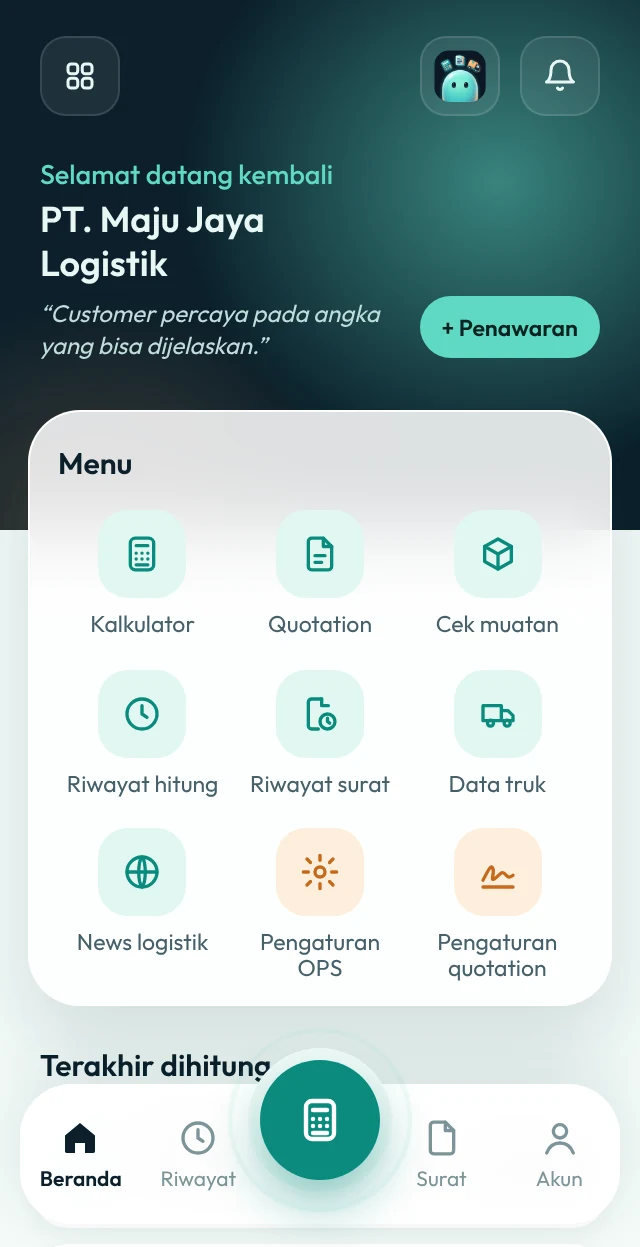
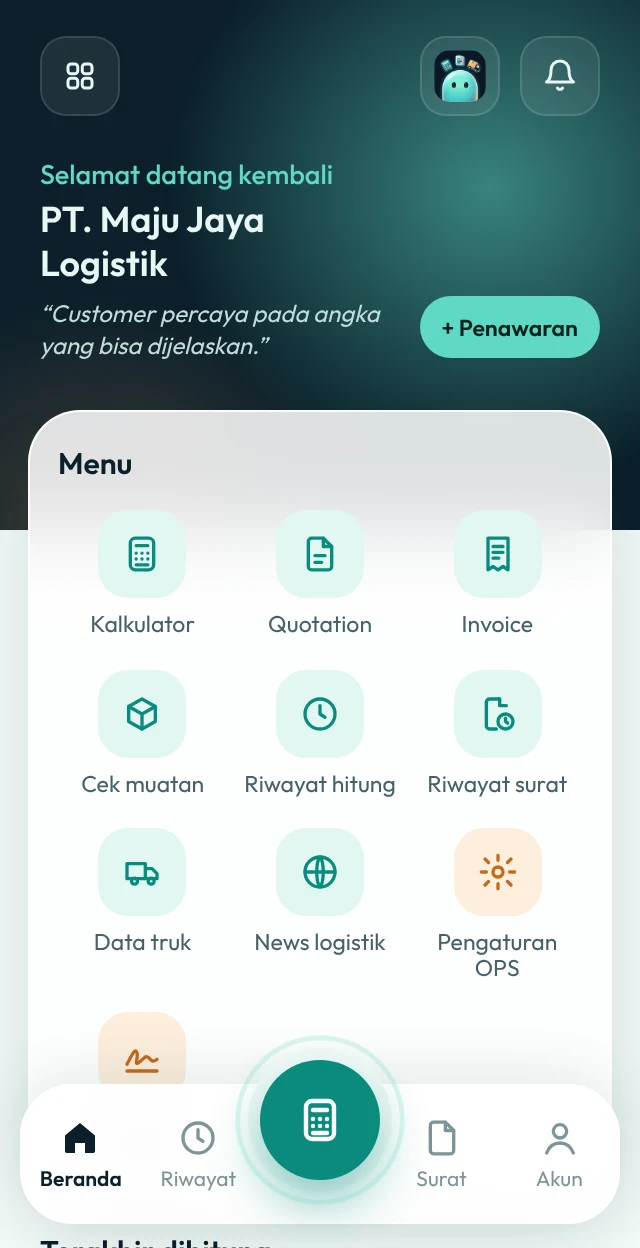
Landing: fitur baru (invoice & pembayaran, tim, cari cepat, iPhone & laptop, oversize), screenshot beranda baru
Claude-Session: https://claude.ai/code/session_013ntjnBoovXgUwfU7gZqrMt

diff --git a/index.html b/index.html
@@ -4,12 +4,12 @@
 <meta charset="utf-8">
 <meta name="viewport" content="width=device-width,initial-scale=1,viewport-fit=cover">
 <title>Download Ghostrip — Aplikasi Harga Trip & Penawaran Truk</title>
-<meta name="description" content="Download aplikasi Ghostrip untuk Android. Hitung harga trip truk otomatis dan kirim surat penawaran PDF lengkap dengan kop, TTD, dan cap langsung dari HP.">
+<meta name="description" content="Download aplikasi Ghostrip untuk Android, iPhone, dan laptop. Hitung harga trip truk otomatis, kirim surat penawaran dan invoice PDF lengkap dengan kop, TTD, dan cap, lalu pantau tagihan yang belum dibayar.">
 <meta name="theme-color" content="#f3fbf9">
 <meta property="og:type" content="website">
 <meta property="og:site_name" content="Ghostrip">
 <meta property="og:title" content="Ghostrip — Harga Pas, Penawaran Rapi.">
-<meta property="og:description" content="Hitung harga trip truk otomatis, cek muatan 3D, dan kirim surat penawaran PDF dengan kop, TTD, dan cap dari HP. Coba gratis 7 hari.">
+<meta property="og:description" content="Hitung harga trip truk otomatis, cek muatan 3D, kirim surat penawaran dan invoice PDF dengan kop, TTD, dan cap, lalu pantau pembayarannya. Coba gratis 7 hari.">
 <meta property="og:url" content="https://ghostrip.id/">
 <meta property="og:image" content="https://ghostrip.id/og.jpg">
 <meta property="og:image:width" content="1200">
@@ -293,7 +293,7 @@ footer .brand img{width:28px;height:28px;border-radius:8px}
     <div class="hc">
       <span class="badge"><b><svg width="14" height="14" viewBox="0 0 24 24" fill="none" stroke="currentColor" stroke-width="2.3" stroke-linecap="round" stroke-linejoin="round" aria-hidden="true"><path d="M12 3l8 3.5v5.2c0 4.6-3.4 8.3-8 9.3-4.6-1-8-4.7-8-9.3V6.5z"/><path d="M8.6 12.2l2.3 2.3 4.6-4.8"/></svg></b>Sudah diuji &amp; dipakai harian oleh admin logistik</span>
       <h1><span class="t">Harga Pas,</span><br>Penawaran <span class="k">Rapi.</span></h1>
-      <p class="lead">Harga trip dihitung otomatis dari solar, tol, sampai markup. Surat penawaran PDF lengkap dengan kop, TTD, dan cap jadi dalam hitungan detik, langsung dari HP.</p>
+      <p class="lead">Harga trip dihitung otomatis dari solar, tol, sampai markup. Surat penawaran dan invoice PDF lengkap dengan kop, TTD, dan cap jadi dalam hitungan detik, langsung dari HP.</p>
       <div class="acts">
         <a class="pbtn" id="dlBtn" href="https://naektxrebdwlgjsdikns.supabase.co/storage/v1/object/public/app-update/apk/Ghostrip.apk?download=Ghostrip.apk">Download App
           <svg width="16" height="16" viewBox="0 0 24 24" fill="none" stroke="currentColor" stroke-width="2.2" stroke-linecap="round" stroke-linejoin="round" aria-hidden="true"><path d="M5 12h14M13 6l6 6-6 6"/></svg></a>
@@ -330,7 +330,7 @@ footer .brand img{width:28px;height:28px;border-radius:8px}
         <div class="phone">
           <div class="screen">
             <div class="island"></div>
-            <img src="home.webp" width="640" height="1247" alt="Beranda aplikasi Ghostrip dengan menu kalkulator, quotation, cek muatan, data truk, dan berita logistik">
+            <img src="home.webp?v=2" width="640" height="1247" alt="Beranda aplikasi Ghostrip dengan menu kalkulator, quotation, invoice, cek muatan, data truk, dan berita logistik">
           </div>
         </div>
       </div>
@@ -356,7 +356,7 @@ footer .brand img{width:28px;height:28px;border-radius:8px}
 
   <section class="s" id="fitur">
     <div class="wrap">
-      <div class="sh rv"><h2>Dari hitung harga sampai <b>surat penawaran</b></h2><p>Dibuat untuk bos dan admin ekspedisi yang ingin penawaran cepat, rapi, dan tidak salah hitung.</p></div>
+      <div class="sh rv"><h2>Dari hitung harga sampai <b>tagihan lunas</b></h2><p>Dibuat untuk bos dan admin ekspedisi yang ingin penawaran cepat, tagihan rapi, dan tidak salah hitung.</p></div>
       <div class="paper rv">
         <div class="sheet"><img src="quote.webp?v=2" width="1100" height="1599" alt="Contoh surat penawaran dari Ghostrip dengan harga per trip, per bulan, dan tonase, lengkap dengan pajak, terbilang, TTD, dan cap" loading="lazy"><i class="mk" style="--y:10%">1</i><i class="mk" style="--y:50%">2</i><i class="mk" style="--y:56%">3</i><i class="mk" style="--y:62.5%">4</i><i class="mk" style="--y:71%">5</i><i class="mk" style="--y:88%">6</i></div>
           <div class="pc r" style="--y:10%;--cd:0.15s"><i class="no">1</i><span class="ic m"><svg width="16" height="16" viewBox="0 0 24 24" fill="none" stroke="currentColor" stroke-width="2.2" stroke-linecap="round" stroke-linejoin="round" aria-hidden="true"><rect x="3" y="4" width="18" height="16" rx="2"/><path d="M7 9h6M7 13h10M7 16h7"/></svg></span><div><b>Kop surat sendiri</b><span>Logo, alamat & kontak</span></div></div>
@@ -373,10 +373,14 @@ footer .brand img{width:28px;height:28px;border-radius:8px}
         <div class="f rv" style="--rd:.06s"><span class="ic m"><svg width="22" height="22" viewBox="0 0 24 24" fill="none" stroke="currentColor" stroke-width="2" stroke-linecap="round" stroke-linejoin="round" aria-hidden="true"><path d="M14 2.5H7a2 2 0 0 0-2 2v15a2 2 0 0 0 2 2h10a2 2 0 0 0 2-2V7.5z"/><path d="M14 2.5v5h5M9 13h6M9 17h4"/></svg></span><div><h3>Penawaran dari riwayat</h3><p>Hasil hitungan tinggal dipilih dari riwayat, langsung masuk ke surat penawaran.</p></div></div>
         <div class="f rv" style="--rd:.12s"><span class="ic m"><svg width="22" height="22" viewBox="0 0 24 24" fill="none" stroke="currentColor" stroke-width="2" stroke-linecap="round" stroke-linejoin="round" aria-hidden="true"><circle cx="12" cy="12" r="9"/><path d="M12 7v5l3 2"/></svg></span><div><h3>Riwayat tersimpan di akun</h3><p>Hitungan dan penawaran tetap ada walaupun ganti HP. Cukup login dengan akun yang sama.</p></div></div>
         <div class="f rv" style="--rd:.18s"><span class="ic o"><svg width="22" height="22" viewBox="0 0 24 24" fill="none" stroke="currentColor" stroke-width="2" stroke-linecap="round" stroke-linejoin="round" aria-hidden="true"><path d="M3 7h11v9H3zM14 10h4l3 3v3h-7z"/><circle cx="7.5" cy="17.5" r="1.8"/><circle cx="17.5" cy="17.5" r="1.8"/></svg></span><div><h3>Data truk sendiri</h3><p>Atur jenis truk, rasio solar, tarif, dan harga solar sesuai armada perusahaan Anda.</p></div></div>
-        <div class="f rv" style="--rd:.24s"><span class="ic m"><svg width="22" height="22" viewBox="0 0 24 24" fill="none" stroke="currentColor" stroke-width="2" stroke-linecap="round" stroke-linejoin="round" aria-hidden="true"><path d="M12 2.5l8.5 4.5v10L12 21.5 3.5 17V7z"/><path d="M12 12l8.5-5M12 12v9.5M12 12L3.5 7"/></svg></span><div><h3>Cek muatan 3D</h3><p>Masukkan ukuran dan berat barang, lihat langsung muat atau tidaknya di bak truk lewat tampilan 3D dan 2D.</p></div></div>
+        <div class="f rv" style="--rd:.24s"><span class="ic m"><svg width="22" height="22" viewBox="0 0 24 24" fill="none" stroke="currentColor" stroke-width="2" stroke-linecap="round" stroke-linejoin="round" aria-hidden="true"><path d="M12 2.5l8.5 4.5v10L12 21.5 3.5 17V7z"/><path d="M12 12l8.5-5M12 12v9.5M12 12L3.5 7"/></svg></span><div><h3>Cek muatan 3D</h3><p>Masukkan ukuran dan berat barang, lihat langsung muat atau tidaknya lewat tampilan 3D dan 2D. Untuk flatbed dan lowbed ada pilihan muatan oversize.</p></div></div>
         <div class="f rv" style="--rd:.30s"><span class="ic o"><svg width="22" height="22" viewBox="0 0 24 24" fill="none" stroke="currentColor" stroke-width="2" stroke-linecap="round" stroke-linejoin="round" aria-hidden="true"><circle cx="12" cy="12" r="9"/><path d="M12 3v18M3 12h18"/></svg></span><div><h3>Warna tabel surat sendiri</h3><p>Pilih warna tabel penawaran dari palet atau ketik kode warnanya, sesuai warna perusahaan Anda.</p></div></div>
         <div class="f rv" style="--rd:.36s"><span class="ic m"><svg width="22" height="22" viewBox="0 0 24 24" fill="none" stroke="currentColor" stroke-width="2" stroke-linecap="round" stroke-linejoin="round" aria-hidden="true"><rect x="4" y="3" width="16" height="18" rx="3"/><path d="M8 8h8M8 12h8M8 16h5"/></svg></span><div><h3>Armada &amp; masa berlaku dokumen</h3><p>Catat armada, STNK, dan KIR, lalu lihat dokumen yang segera habis dengan satu filter.</p></div></div>
         <div class="f rv" style="--rd:.42s"><span class="ic o"><svg width="22" height="22" viewBox="0 0 24 24" fill="none" stroke="currentColor" stroke-width="2" stroke-linecap="round" stroke-linejoin="round" aria-hidden="true"><path d="M4 5h16v14H4z"/><path d="M8 9h8M8 13h5"/></svg></span><div><h3>Berita logistik terbaru</h3><p>Kabar solar, tarif, aturan ODOL, dan pelabuhan terbaru langsung di dalam aplikasi.</p></div></div>
+              <div class="f rv"><span class="ic m"><svg width="22" height="22" viewBox="0 0 24 24" fill="none" stroke="currentColor" stroke-width="2" stroke-linecap="round" stroke-linejoin="round" aria-hidden="true"><path d="M6 2.5h12v19l-3-2-3 2-3-2-3 2z"/><path d="M9 7.5h6M9 11h6M9 14.5h3.5"/></svg></span><div><h3>Invoice &amp; pembayaran</h3><p>Ubah penawaran jadi invoice sekali ketuk. Catat DP dan pelunasan, lihat tagihan yang lewat jatuh tempo, dan kirim PDF dengan stempel LUNAS.</p></div></div>
+        <div class="f rv" style="--rd:.06s"><span class="ic o"><svg width="22" height="22" viewBox="0 0 24 24" fill="none" stroke="currentColor" stroke-width="2" stroke-linecap="round" stroke-linejoin="round" aria-hidden="true"><circle cx="9" cy="8" r="3.5"/><path d="M2.5 20c.8-3.6 3.4-5.5 6.5-5.5s5.7 1.9 6.5 5.5"/><path d="M16 4.8a3.4 3.4 0 0 1 0 6.4M18.5 14.8c1.8.7 3 2.5 3.5 5.2"/></svg></span><div><h3>Satu akun untuk satu tim</h3><p>Ajak admin dan staf masuk ke data perusahaan yang sama. Pemilik mengatur siapa yang boleh mengubah pengaturan dan mencatat pembayaran.</p></div></div>
+        <div class="f rv" style="--rd:.12s"><span class="ic m"><svg width="22" height="22" viewBox="0 0 24 24" fill="none" stroke="currentColor" stroke-width="2" stroke-linecap="round" stroke-linejoin="round" aria-hidden="true"><circle cx="11" cy="11" r="7"/><path d="M20 20l-3.5-3.5"/></svg></span><div><h3>Cari cepat</h3><p>Ketik nama perusahaan, nomor surat, atau rute untuk menemukan hitungan, penawaran, dan invoice lama dalam sekejap.</p></div></div>
+        <div class="f rv" style="--rd:.18s"><span class="ic o"><svg width="22" height="22" viewBox="0 0 24 24" fill="none" stroke="currentColor" stroke-width="2" stroke-linecap="round" stroke-linejoin="round" aria-hidden="true"><rect x="2.5" y="4" width="13" height="9.5" rx="1.5"/><path d="M6 17h6"/><rect x="16.5" y="7" width="5" height="11" rx="1.2"/></svg></span><div><h3>HP, iPhone, dan laptop</h3><p>Pakai aplikasi Android, atau buka di browser iPhone dan laptop dengan tampilan layar lebar. Datanya sama di semua perangkat.</p></div></div>
       </div>
     </div>
   </section>
@@ -415,7 +419,7 @@ footer .brand img{width:28px;height:28px;border-radius:8px}
         </div>
       </div>
       <div class="incl rv">
-        <span><svg width="14" height="14" viewBox="0 0 24 24" fill="none" stroke="currentColor" stroke-width="3" stroke-linecap="round" stroke-linejoin="round" aria-hidden="true"><path d="M20 6L9 17l-5-5"/></svg>Hitung harga trip otomatis</span><span><svg width="14" height="14" viewBox="0 0 24 24" fill="none" stroke="currentColor" stroke-width="3" stroke-linecap="round" stroke-linejoin="round" aria-hidden="true"><path d="M20 6L9 17l-5-5"/></svg>Surat penawaran PDF dengan kop, TTD &amp; cap</span><span><svg width="14" height="14" viewBox="0 0 24 24" fill="none" stroke="currentColor" stroke-width="3" stroke-linecap="round" stroke-linejoin="round" aria-hidden="true"><path d="M20 6L9 17l-5-5"/></svg>Riwayat hitungan tersimpan di akun</span>
+        <span><svg width="14" height="14" viewBox="0 0 24 24" fill="none" stroke="currentColor" stroke-width="3" stroke-linecap="round" stroke-linejoin="round" aria-hidden="true"><path d="M20 6L9 17l-5-5"/></svg>Hitung harga trip otomatis</span><span><svg width="14" height="14" viewBox="0 0 24 24" fill="none" stroke="currentColor" stroke-width="3" stroke-linecap="round" stroke-linejoin="round" aria-hidden="true"><path d="M20 6L9 17l-5-5"/></svg>Surat penawaran &amp; invoice PDF dengan kop, TTD &amp; cap</span><span><svg width="14" height="14" viewBox="0 0 24 24" fill="none" stroke="currentColor" stroke-width="3" stroke-linecap="round" stroke-linejoin="round" aria-hidden="true"><path d="M20 6L9 17l-5-5"/></svg>Riwayat hitungan tersimpan di akun</span>
       </div>
       <div class="trialbar rv">
         <img src="logo.png" alt="" width="44" height="44">
@@ -431,7 +435,8 @@ footer .brand img{width:28px;height:28px;border-radius:8px}
       <div class="faq rv">
         <details><summary>Apakah aplikasi ini aman?</summary><p>Ya. File APK dibuat dan dibagikan langsung oleh tim Ghostrip lewat halaman ini. Peringatan dari Android muncul karena aplikasi belum dipasang lewat Play Store, bukan karena ada masalah.</p></details>
         <details><summary>HP apa saja yang bisa dipakai?</summary><p>Semua HP Android versi 5.1 ke atas lewat aplikasi. Di iPhone dan laptop, buka lewat tombol <a href="app/">Masuk</a> di browser. Akun dan datanya sama, jadi bisa ganti-ganti perangkat.</p></details>
-        <details><summary>Kalau ganti HP, data saya hilang?</summary><p>Tidak. Pengaturan kop surat, TTD, data truk, dan riwayat tersimpan di akun. Install Ghostrip di HP baru lalu masuk dengan akun yang sama.</p></details>
+        <details><summary>Bisa dipakai bareng admin dan staf?</summary><p>Bisa. Pemilik akun menambahkan anggota tim, lalu semuanya bekerja di data perusahaan yang sama. Staf bisa menghitung dan membuat surat, sedangkan pengaturan dan pencatatan pembayaran dipegang pemilik dan admin.</p></details>
+        <details><summary>Kalau ganti HP, data saya hilang?</summary><p>Tidak. Pengaturan kop surat, TTD, data truk, riwayat, dan invoice tersimpan di akun. Install Ghostrip di HP baru lalu masuk dengan akun yang sama.</p></details>
         <details><summary>Apakah harus selalu pakai internet?</summary><p>Internet dibutuhkan saat pertama masuk dan untuk menyimpan data ke akun. Setelah itu menghitung dan membuat penawaran tetap bisa saat sinyal lemah; data terkirim sendiri saat internet tersambung.</p></details>
         <details><summary>Muncul tulisan "Aplikasi tidak terinstal"?</summary><p>Biasanya karena masih ada Ghostrip versi lama dengan tanda tangan berbeda. Hapus Ghostrip lama dulu, lalu install lagi. Data Anda aman karena tersimpan di akun.</p></details>
         <details><summary>Lupa password atau belum punya akun?</summary><p>Hubungi admin Ghostrip lewat WhatsApp. Akun dibuat oleh admin, dan Anda bisa mencoba gratis selama 7 hari.</p></details>
